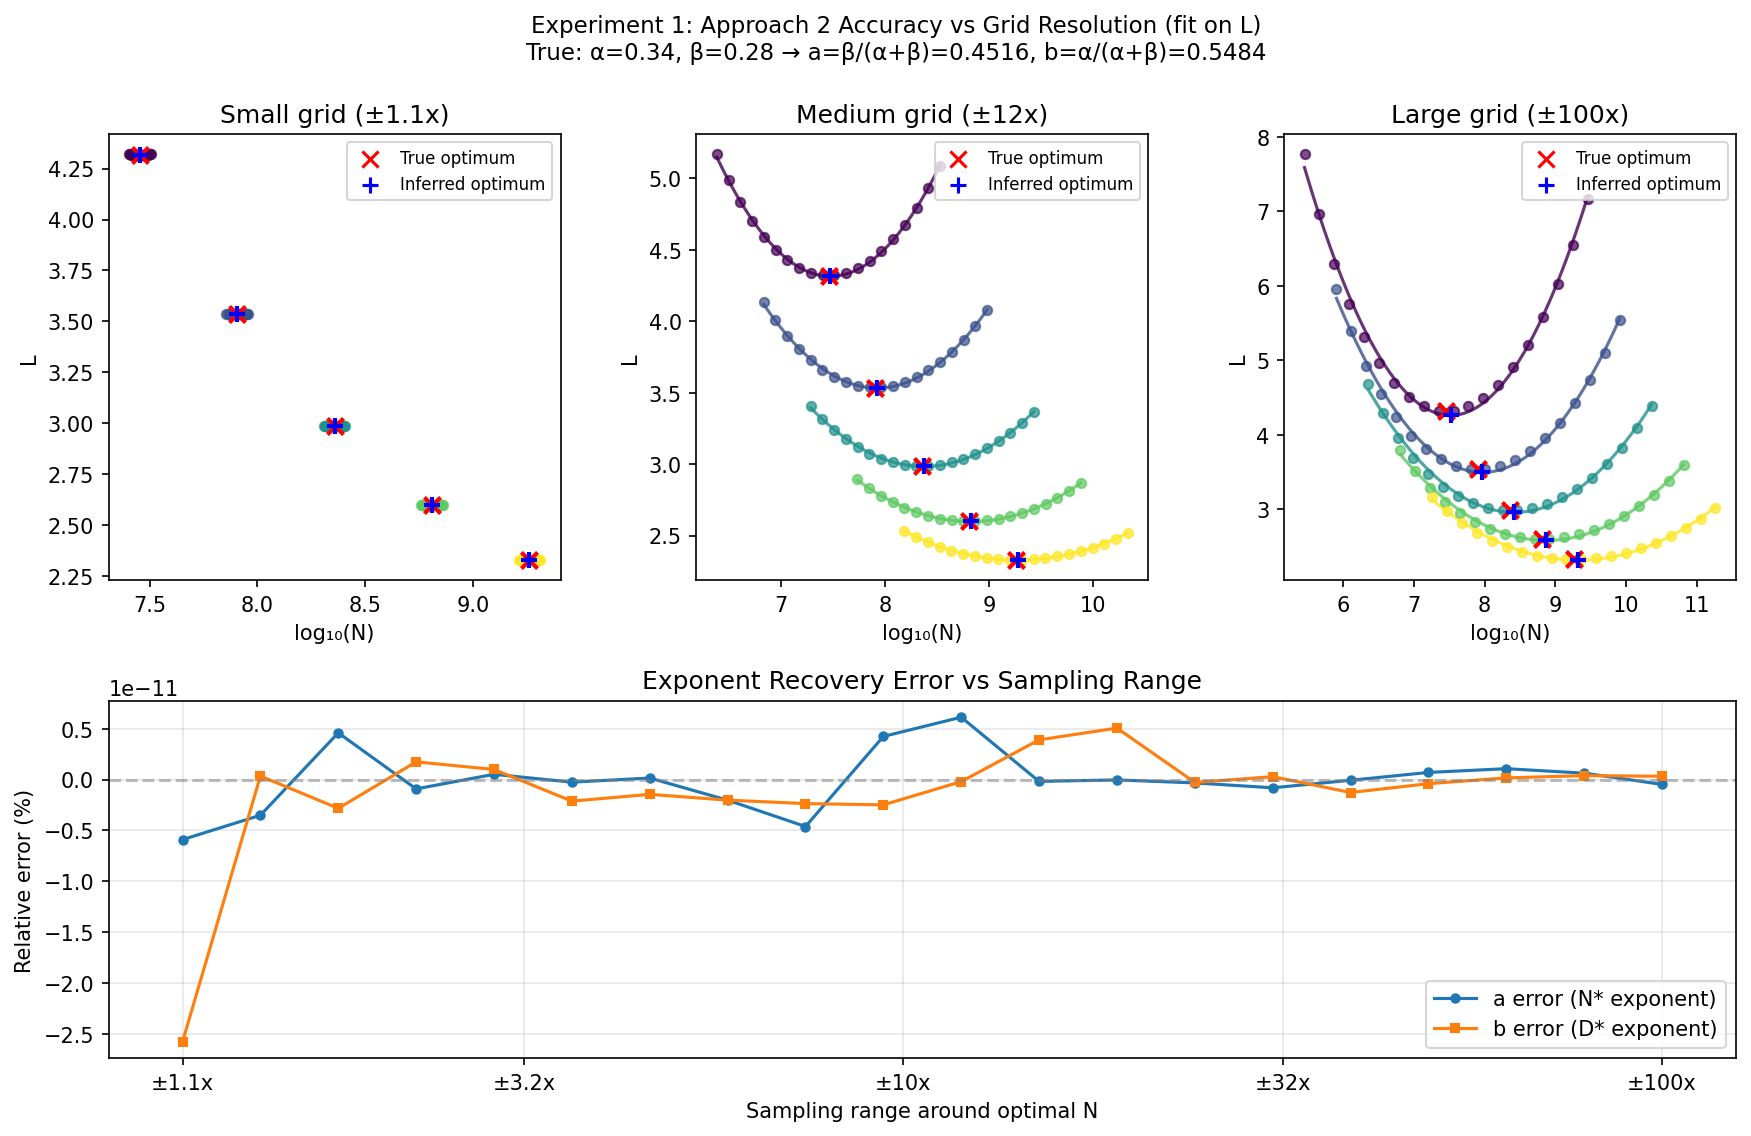
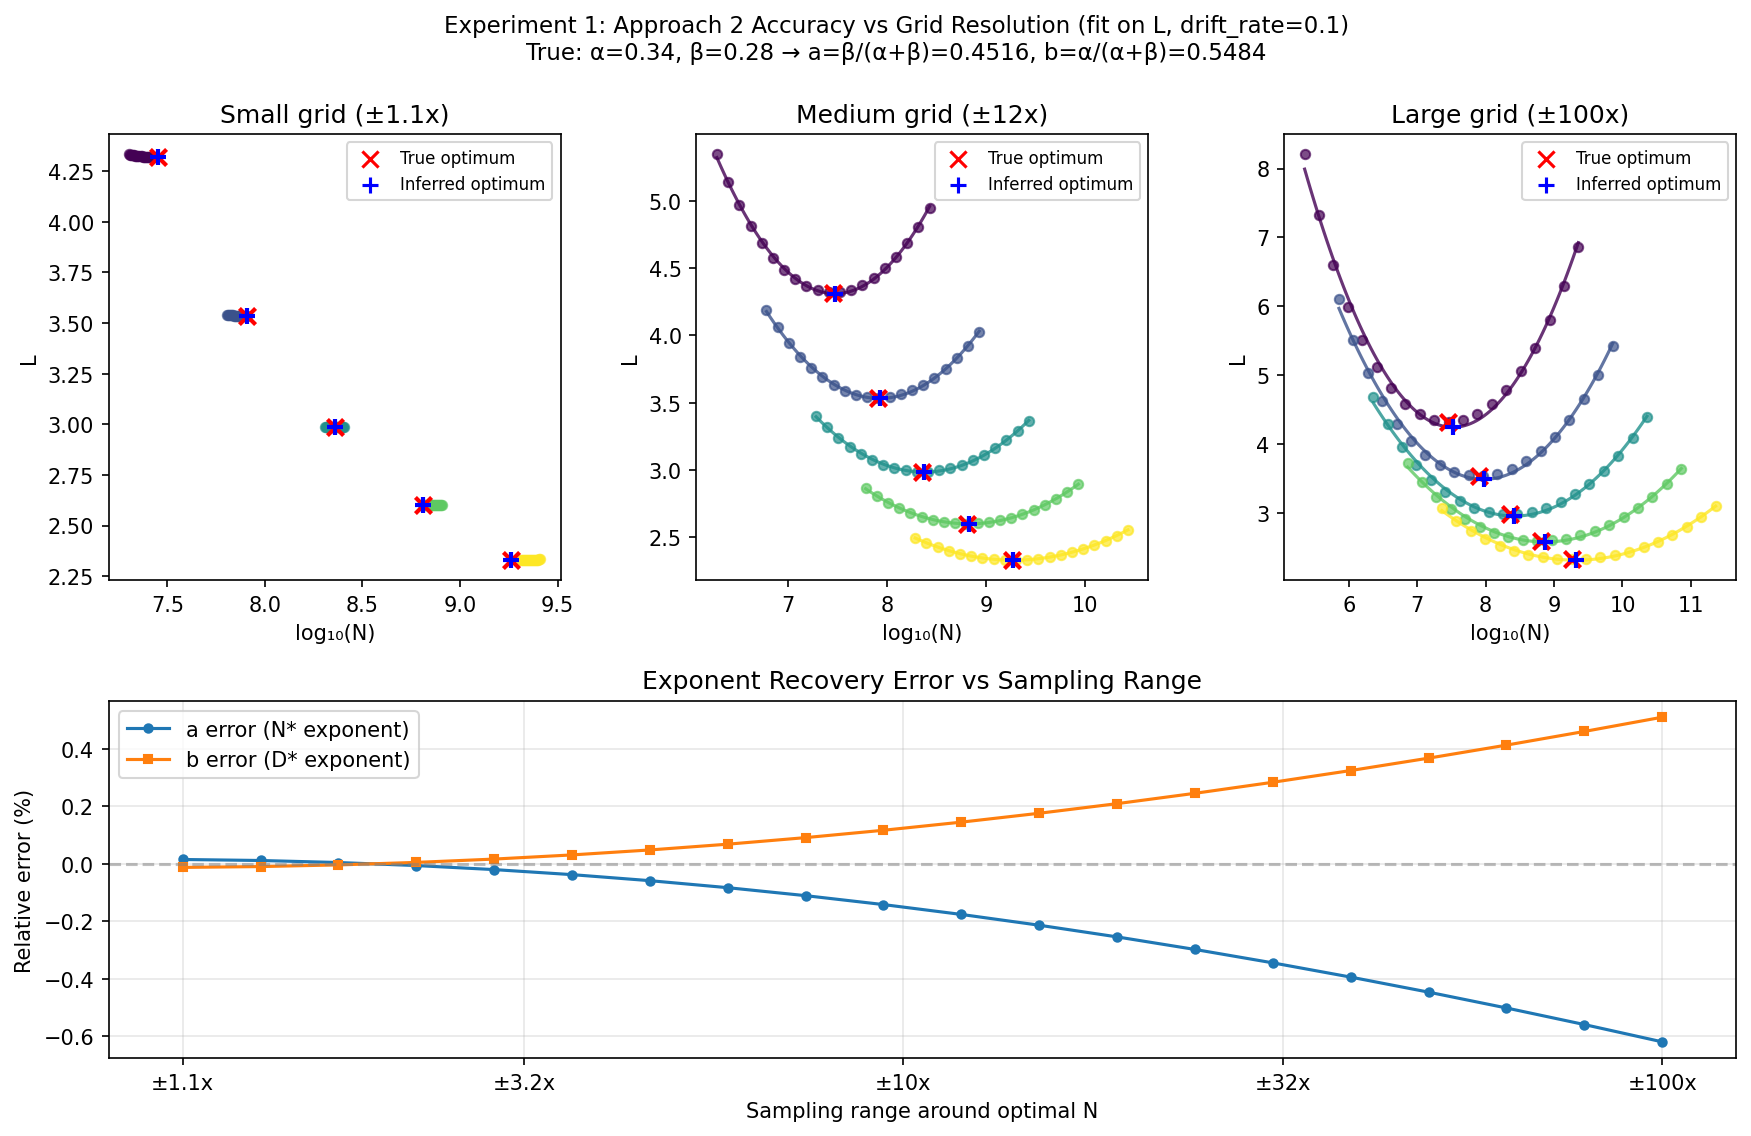
Add drift_rate parameter to simulate systematic sampling bias
Introduces drift_rate to approach2_recover that shifts IsoFLOP sampling
centers away from the true optimum: left at low compute budgets, right
at high compute budgets. This simulates systematic bias in experimental
sampling where practitioners may not know the true optimal allocation.

- Add compute_drift_offset helper function to chinchilla.py
- Add center_offset parameter to isoflop_sample
- Update experiment 1 to support drift_rate
- Update project.md specs

diff --git a/src/scaling_law_analysis/experiments/exp1_empirical_error.py b/src/scaling_law_analysis/experiments/exp1_empirical_error.py
@@ -14,6 +14,7 @@ from pathlib import Path
 from scaling_law_analysis import config
 from scaling_law_analysis.chinchilla import (
     chinchilla_loss,
+    compute_drift_offset,
     isoflop_sample,
     optimal_allocation,
     approach2_recover,
@@ -37,6 +38,7 @@ def run_experiment(
     log_ranges: np.ndarray,
     n_points: int = 10,
     use_log_loss: bool = False,
+    drift_rate: float = 0.0,
 ) -> dict:
     """Run Approach 2 recovery across multiple grid step sizes.
 
@@ -46,6 +48,7 @@ def run_experiment(
         n_points: Number of points per IsoFLOP curve
         use_log_loss: If True, fit parabola to log(L) vs log(N).
                       If False (default), fit parabola to L vs log(N).
+        drift_rate: Rate at which sampling center drifts from optimal.
 
     Returns:
         Dictionary with results for a and b exponents
@@ -65,6 +68,7 @@ def run_experiment(
             compute_budgets=compute_budgets,
             n_points=n_points,
             log_range=log_range,
+            drift_rate=drift_rate,
             use_log_loss=use_log_loss,
         )
         a_recovered.append(result.a)
@@ -84,6 +88,7 @@ def run_experiment(
         "b_error": (b_recovered - true_b) / true_b,
         "results": results,
         "use_log_loss": use_log_loss,
+        "drift_rate": drift_rate,
     }
 
 
@@ -94,6 +99,7 @@ def plot_isoflop_fits(
     log_range: float,
     title: str,
     use_log_loss: bool = False,
+    drift_rate: float = 0.0,
 ):
     """Plot IsoFLOP curves with parabola fits for a single grid step size.
 
@@ -104,12 +110,15 @@ def plot_isoflop_fits(
         log_range: Grid step size used
         title: Plot title
         use_log_loss: Whether log loss was used for fitting
+        drift_rate: Rate at which sampling center drifts from optimal
     """
     colors = plt.cm.viridis(np.linspace(0, 1, len(compute_budgets)))
 
     for i, (C, fit) in enumerate(zip(compute_budgets, result.parabola_fits_N)):
+        center_offset = compute_drift_offset(C, compute_budgets, drift_rate)
+
         # Get sampled data
-        N, D, L = isoflop_sample(C, 20, log_range)
+        N, D, L = isoflop_sample(C, 20, log_range, center_offset)
         log_N = np.log10(N)
 
         # Transform y-axis based on fitting mode
@@ -217,6 +226,7 @@ def create_figure(
         Matplotlib figure
     """
     use_log_loss = experiment_results.get("use_log_loss", False)
+    drift_rate = experiment_results.get("drift_rate", 0.0)
     fit_mode = "log(L)" if use_log_loss else "L"
     
     fig = plt.figure(figsize=(14, 8))
@@ -240,6 +250,7 @@ def create_figure(
             actual_log_range,
             f"{size_labels[i]} grid ({log_range_to_label(actual_log_range)})",
             use_log_loss=use_log_loss,
+            drift_rate=drift_rate,
         )
 
     # Bottom row: Error plot (spans all columns)
@@ -251,8 +262,9 @@ def create_figure(
     true_beta = CHINCHILLA_PARAMS["beta"]
     true_a = experiment_results["true_a"]
     true_b = experiment_results["true_b"]
+    drift_str = f", drift_rate={drift_rate}" if drift_rate != 0.0 else ""
     fig.suptitle(
-        f"Experiment 1: Approach 2 Accuracy vs Grid Resolution (fit on {fit_mode})\n"
+        f"Experiment 1: Approach 2 Accuracy vs Grid Resolution (fit on {fit_mode}{drift_str})\n"
         f"True: α={true_alpha}, β={true_beta} → a=β/(α+β)={true_a:.4f}, b=α/(α+β)={true_b:.4f}",
         fontsize=11,
         y=0.98,
@@ -272,16 +284,18 @@ def main():
     log_ranges = np.linspace(0.05, 2.0, 20)  # Grid step sizes to test
     n_points = 15  # Points per IsoFLOP curve
     use_log_loss = False  # If True, fit log(L) vs log(N); if False, fit L vs log(N)
+    drift_rate = 0.1  # Drift rate for sampling center offset
 
     fit_mode = "log(L) vs log(N)" if use_log_loss else "L vs log(N)"
     print(f"\nFitting mode: {fit_mode}")
     print(f"Compute budgets: {compute_budgets}")
     print(f"Grid step sizes (log_range): {log_ranges[0]:.2f} to {log_ranges[-1]:.2f}")
     print(f"Points per IsoFLOP curve: {n_points}")
+    print(f"Drift rate: {drift_rate}")
 
     # Run experiment
     print("\nRunning parameter recovery...")
-    results = run_experiment(compute_budgets, log_ranges, n_points, use_log_loss=use_log_loss)
+    results = run_experiment(compute_budgets, log_ranges, n_points, use_log_loss=use_log_loss, drift_rate=drift_rate)
 
     true_alpha = CHINCHILLA_PARAMS["alpha"]
     true_beta = CHINCHILLA_PARAMS["beta"]

diff --git a/src/scaling_law_analysis/chinchilla.py b/src/scaling_law_analysis/chinchilla.py
@@ -80,10 +80,44 @@ def optimal_allocation(
     return N_opt, D_opt
 
 
+def compute_drift_offset(
+    C: float,
+    compute_budgets: np.ndarray,
+    drift_rate: float,
+) -> float:
+    """Compute the center offset for a given compute budget based on drift rate.
+
+    The offset is linear in log-compute space:
+    - At min compute: offset = -drift_rate
+    - At max compute: offset = +drift_rate
+
+    Args:
+        C: Compute budget for which to compute offset
+        compute_budgets: Array of all compute budgets (for normalization)
+        drift_rate: Rate at which sampling center drifts from optimal
+
+    Returns:
+        Center offset in log10 units
+    """
+    if drift_rate == 0.0:
+        return 0.0
+
+    log_C_all = np.log10(compute_budgets)
+    log_C_mid = (log_C_all.min() + log_C_all.max()) / 2
+    log_C_half_range = (log_C_all.max() - log_C_all.min()) / 2
+
+    if log_C_half_range <= 0:
+        return 0.0
+
+    normalized_log_C = (np.log10(C) - log_C_mid) / log_C_half_range
+    return drift_rate * normalized_log_C
+
+
 def isoflop_sample(
     C: float,
     n_points: int,
     log_range: float = 1.0,
+    center_offset: float = 0.0,
     A: float = CHINCHILLA_PARAMS["A"],
     B: float = CHINCHILLA_PARAMS["B"],
     alpha: float = CHINCHILLA_PARAMS["alpha"],
@@ -98,6 +132,8 @@ def isoflop_sample(
         C: Compute budget in FLOPs
         n_points: Number of points to sample
         log_range: Range in log10 space around optimal N (±log_range)
+        center_offset: Offset in log10 space to shift sampling center from optimal N*
+                       Positive values shift center to larger N, negative to smaller N
         A, B, alpha, beta: Chinchilla parameters
 
     Returns:
@@ -105,9 +141,10 @@ def isoflop_sample(
     """
     N_opt, _ = optimal_allocation(C, A, B, alpha, beta)
 
-    # Sample N logarithmically around optimal
-    log_N_min = np.log10(N_opt) - log_range
-    log_N_max = np.log10(N_opt) + log_range
+    # Sample N logarithmically around (possibly offset) center
+    log_N_center = np.log10(N_opt) + center_offset
+    log_N_min = log_N_center - log_range
+    log_N_max = log_N_center + log_range
     N = np.logspace(log_N_min, log_N_max, n_points)
 
     # Derive D from constraint C = 6ND
@@ -203,6 +240,7 @@ def approach2_recover(
     compute_budgets: np.ndarray,
     n_points: int = 10,
     log_range: float = 1.0,
+    drift_rate: float = 0.0,
     A: float = CHINCHILLA_PARAMS["A"],
     B: float = CHINCHILLA_PARAMS["B"],
     alpha: float = CHINCHILLA_PARAMS["alpha"],
@@ -218,6 +256,11 @@ def approach2_recover(
         compute_budgets: Array of compute budgets (FLOPs)
         n_points: Number of points per IsoFLOP curve
         log_range: Sampling range in log10 space around optimal N (and D)
+        drift_rate: Rate at which sampling center drifts from optimal as a
+                    function of compute budget. When non-zero, centers are shifted
+                    left (smaller N) at low compute and right (larger N) at high
+                    compute. The drift is linear in log-compute space and measured
+                    in log10 units of N. The effect is constant regardless of log_range.
         A, B, alpha, beta: Chinchilla parameters for data generation
         use_log_loss: If True, fit parabola to log(L) vs log(x).
                       If False (default), fit parabola to L vs log(x).
@@ -232,7 +275,8 @@ def approach2_recover(
     D_opts = []
 
     for C in compute_budgets:
-        N, D, L = isoflop_sample(C, n_points, log_range, A, B, alpha, beta)
+        center_offset = compute_drift_offset(C, compute_budgets, drift_rate)
+        N, D, L = isoflop_sample(C, n_points, log_range, center_offset, A, B, alpha, beta)
         
         # Fit parabola to L vs log(N) to find N*
         fit_N = fit_parabola(np.log10(N), L, use_log_loss=use_log_loss)

diff --git a/specs/project.md b/specs/project.md
@@ -22,6 +22,8 @@ The purpose of this project is to:
 
 2. For each sampling range (narrow to wide):
    - Sample IsoFLOP contours at 5 compute budgets: 10^17 to 10^21 FLOPs
+   - Optionally apply drift_rate to shift sampling centers away from the true optimum
+     (left at low compute, right at high compute) to simulate systematic sampling bias
    - Fit parabolas to L vs log(N) for each budget → extract N*
    - Fit parabolas to L vs log(D) for each budget → extract D*
    - Fit power laws: N* ∝ C^a and D* ∝ C^b
